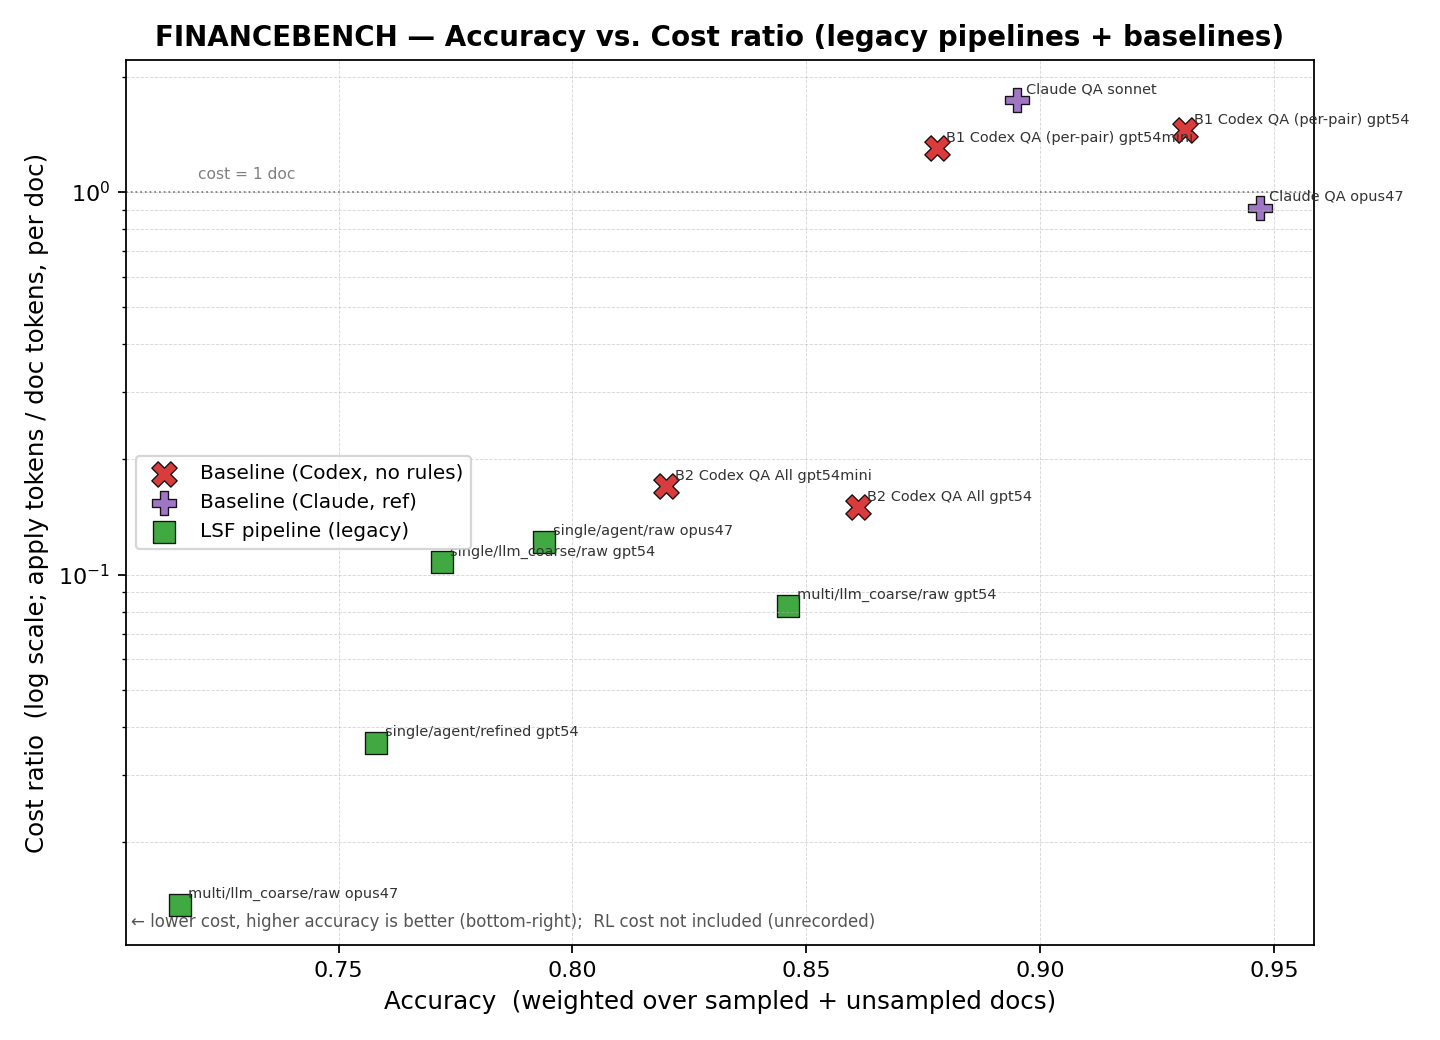
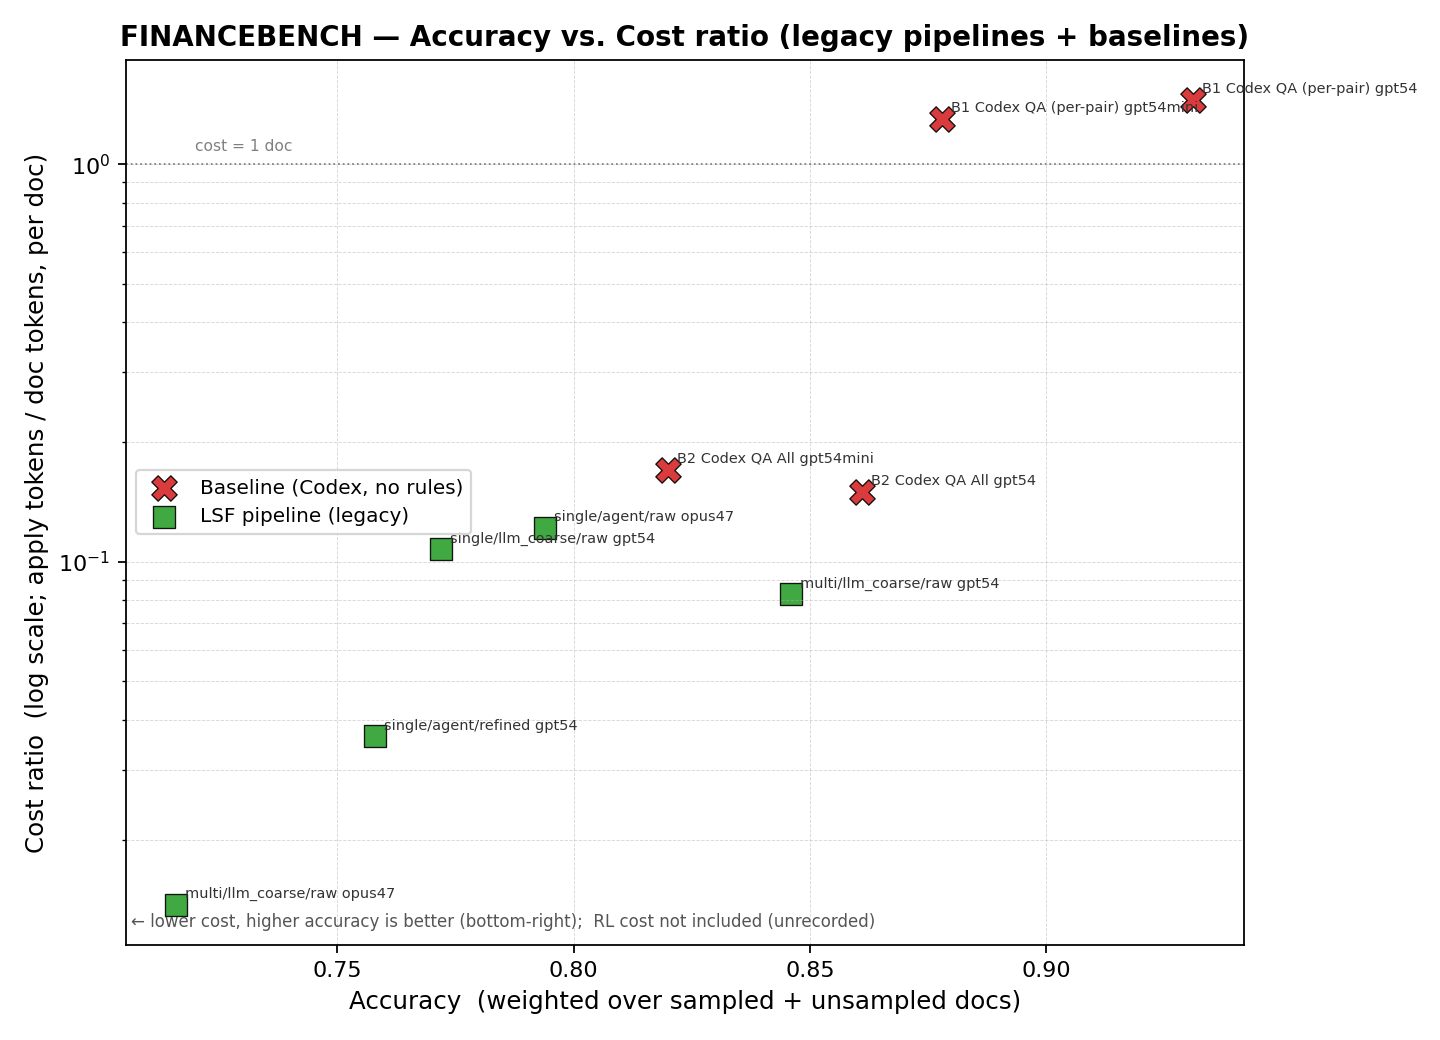
financebench final_result: drop Claude/opus + single_cluster; add agentic_full_data, agentic+fallback, easy-10 & matched-6 tables
- Remove Claude baseline from financebench accuracy-vs-cost plot
- final_result.md FINANCEBENCH: remove opus/sonnet and single_cluster rows
- Add 3 agentic_full_data (rule-end-to-end) rows from results/financebench
- Add multi_clusters llm_coarse agentic+fallback pipeline (0.848 @ 0.0090)
- Add 10-easy-question table (pipelines) and matched 6-shared-question table (baselines vs pipelines)
- Baselines verified against baseline_results/financebench (Codex only)

diff --git a/images/final_result/financebench/plot_financebench.py b/images/final_result/financebench/plot_financebench.py
@@ -9,7 +9,7 @@ Data source: the FINANCEBENCH section in docs/final_result.md.
       Cost ratio = combined apply retrieved/doc over both splits
   Baselines: per-pair / amortized input/doc token ratio.
 
-Cost spans ~0.014 to ~1.74, so the y-axis is log-scaled.
+Cost spans ~0.014 to ~1.45, so the y-axis is log-scaled.
 Run:  python3 images/final_result/financebench/plot_financebench.py
 Output: images/final_result/financebench/financebench_accuracy_vs_cost.png
 """
@@ -25,9 +25,6 @@ DATA = [
     ("B1 Codex QA (per-pair) gpt54mini", 0.878, 1.30, "baseline"),
     ("B2 Codex QA All gpt54",            0.861, 0.15, "baseline"),
     ("B2 Codex QA All gpt54mini",        0.820, 0.17, "baseline"),
-    # reference baselines (Claude)
-    ("Claude QA opus47",                 0.947, 0.91, "baseline_claude"),
-    ("Claude QA sonnet",                 0.895, 1.74, "baseline_claude"),
     # legacy pipelines
     ("multi/llm_coarse/raw gpt54",       0.846, 0.0829, "pipeline"),
     ("single/agent/raw opus47",          0.794, 0.1217, "pipeline"),
@@ -38,7 +35,6 @@ DATA = [
 
 STYLE = {
     "baseline":        dict(color="#d62728", marker="X", s=130, label="Baseline (Codex, no rules)"),
-    "baseline_claude": dict(color="#9467bd", marker="P", s=120, label="Baseline (Claude, ref)"),
     "pipeline":        dict(color="#2ca02c", marker="s", s=95,  label="LSF pipeline (legacy)"),
 }
 
